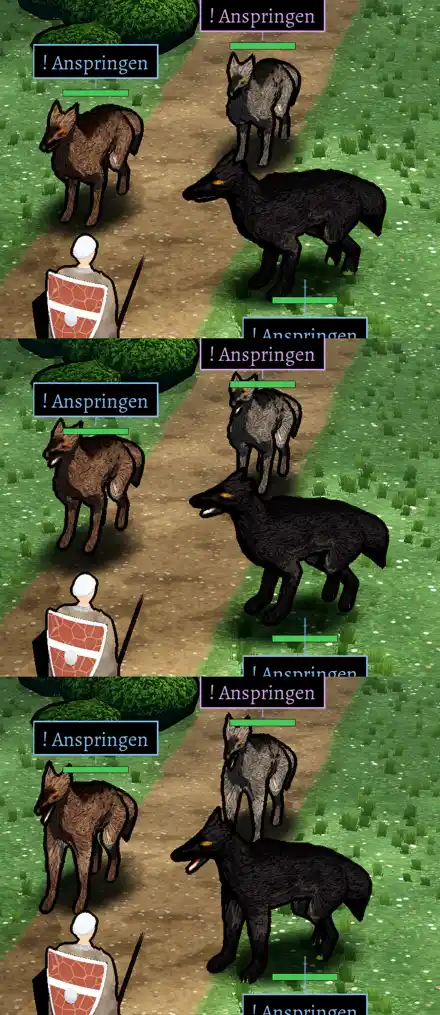
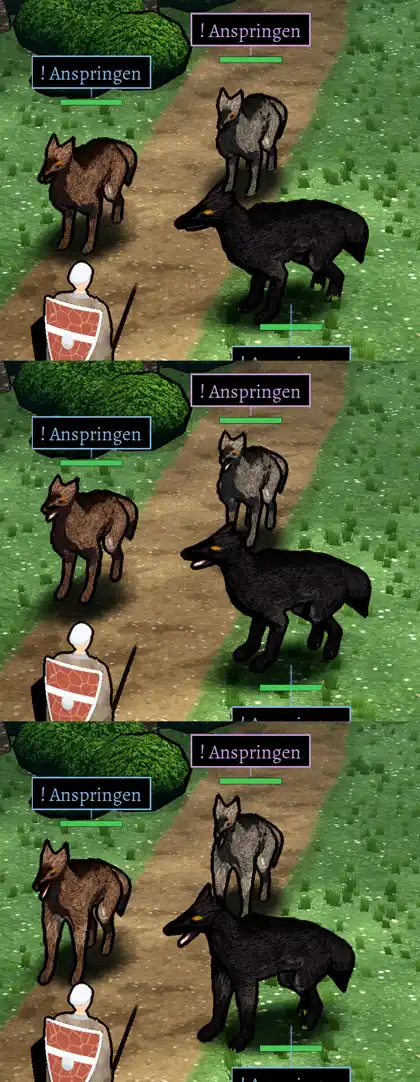
Jerry: 348.7 Runde 8 Chefsache, Übergabe

diff --git a/docs/ARBEIT-TEAM-JERRY.md b/docs/ARBEIT-TEAM-JERRY.md
@@ -5,13 +5,13 @@ Monster, Höhle, Kampf, Klang (`ROLLE-ENTWICKLUNG.md`). Reihenfolge = Vorrang; e
 **Pause aufgehoben (Sokrates als Vertreter des Chefs, 25.10., 01:2x: „Kümmere dich darum, dass der Laden läuft“):** Arbeit nach `LISTE-UMZUG-348.md`, Zeilen 348.6–348.8; altes Spiel ruht weiter.
 
 
-**Übergabe (25.10., 10:06, „Jerry – 348.7 Kampfort Godot 16“):** Zweig `claude/jerry-348-kampf`: Wölfe Runden 2–7 (8ad34ad Lauf 43 grün, Chef 09:37 gemeldet; 9ed97862 Lauf 44 prüfen); Ursache Kopf per Prüfbild `DIAG=1` gefunden (Zu 348.7, Runden 5–7). Nachfolger: „Jerry – 348.7 Kampfort Godot 17“.
+**Übergabe (25.10., 10:35, „Jerry – 348.7 Kampfort Godot 17“):** Zweig `claude/jerry-348-kampf`: Runde 8 Kopf, Hüfte, Lebensbalken (20788bbbf, Lauf 48 prüfen); Chefsache 3487 angelegt, gemeldet. Nachfolger: „Jerry – 348.7 Kampfort Godot 18“.
 
 ## Zeilen
 
 | Nr. | Kl. | Titel | Stand | Zweig |
 |---|---|---|---|---|
-| 348.7 | M | **von Sokrates (Vertretung Chef 25.10., 01:19):** Umzug Godot: Modellregel, Kampfort Wolfsrudel in MARS mit echten Regeln (`LISTE-UMZUG-348.md`) | startbar: Wölfe nach Urteil Chef 08:57, Runden 1–8 (69b9d1ed9, Lauf 46), Chef gemeldet 09:37 (Runde 4); Kopf r8 (Zu 348.7, Runde 8) melden, dann Hüftstreifen; Zustandszeichen: Sokrates fragt nach | `claude/jerry-348-kampf` |
+| 348.7 | M | **von Sokrates (Vertretung Chef 25.10., 01:19):** Umzug Godot: Modellregel, Kampfort Wolfsrudel in MARS mit echten Regeln (`LISTE-UMZUG-348.md`) | startbar: Wölfe nach Urteil Chef 08:57, Runden 1–8 (20788bbbf, Lauf 48), Chefsache 3487 Runde 8 offen; bis Urteil Hinterleib von vorn (Zu 348.7, Runde 8); Zustandszeichen: Sokrates fragt nach | `claude/jerry-348-kampf` |
 | 348.3 | M | **von Sokrates (Chef 24.10., 18:30):** Fehlermessung Engine, Bereich Jerry: hätte Godot die Chef-Fehler seit 10.10. verhindert; Umzugskosten in Sitzungen; Tabelle in Chefsache 348 | wartet auf Chef: Tabelle in Chefsache 348: Godot allein 0, mit Modellen 11 von 32; Umzug 15–21 Sitzungen | – |
 | 304 | M | **von Chef (22.10., 13:22):** Klassisch: Abwehr, getroffen, trotzdem Konter, regeltechnisch richtig? (Zu 304) | ruht: im Chat beantwortet (Konter nur nach Fehlschlag, eigene Regel); ändern nur auf Wort des Chefs | – |
 | 257 | M | **von Chef (20.10., 17:17, Test B46):** App „hängt“, ging dann weiter (Zu 257) | ruht: Hänger-Wächter (Tom) seit Build 49; bis zum nächsten Hänger mit Absturzbericht | – |
@@ -43,9 +43,9 @@ Monster, Höhle, Kampf, Klang (`ROLLE-ENTWICKLUNG.md`). Reihenfolge = Vorrang; e
 - **Zu 348.7, von Sokrates (Chef 25.10., 08:42):** jedes mehrfach vorkommende Objekt in mindestens drei Varianten, auch Höhlenobjekte (`LISTE-UMZUG-348.md` Punkt 6).
 - **Zu 348.7, Werkzeug (Jerry 25.10., 03:55):** lokal rendern statt auf Läufe warten: Godot 4.7.2 nach `~/godot/godot` (GitHub-Release, lädt in Sekunden), Modelle aus dem APK des letzten Laufs (`unzip kampf348.apk 'assets/kampf/daten/*'` nach `godot/kampf/daten/`), dann `xvfb-run -a -s "-screen 0 1080x2340x24" ~/godot/godot --rendering-driver opengl3 --path godot --resolution 1080x2340 -- --bild=<png>`; Ausgabe „Schirm“ (Fuß/Kopf am Schirm), „Waffe“, „Schild“ (Achsen), „Blick“. Helligkeit der Gegner: zweites Bild mit `GLUEH=1`, Unterschied = Bildpunkte des Gegners. Altes Bild: `cd tools/preview && MARS211=wolves MARS211FORMAT=a56 ../../gradlew -q run` (liegt in `tools/preview/build/screens/mars211/a56_01.png`). Blender lokal: `python3 -m venv ~/bl && ~/bl/bin/pip install bpy==5.2.3 numpy pillow` (im Hintergrund, etwa 2 Minuten), dann `OUT=… ~/bl/bin/python -I tools/blender348/wolf.py`, Dateien wie im Workflow nach `godot/kampf/daten/` (`.glb` → `.bin`). Artefakt-Link: `actions_get download_workflow_run_artifact`, mit `curl` laden.
 - **Zu 348.7, Runde 1 nach Urteil Chef 08:57 (Jerry 25.10., 09:09, 03afc119d; Punkte in `LISTE-UMZUG-348.md`):** Standbilder: `HALTUNG=…` mit `--bild=`, Ausschnitt (300,450)–(1080,1050) ×2. Ablauf je Runde: `wolf.py` bauen, nach `godot/kampf/daten/` kopieren, `--headless --import`, rendern (Werkzeug oben, etwa 1 min); Helligkeit grau 90, schwarz 29, braun 75 (alt 81/31/–).
-- **Zu 348.7, Runden 2–4 (Jerry 25.10., 09:37, 8ad34ad):** Befund in Git; offen außer Kopf: Hüftstreifen, Ohren des grauen im Lebensbalken. **HALTUNG ist in Sekunden:** `Scharren:0.2` (höchste Hebung), `Lefzen:1.0`; Probe druckt „Pfote“, `wolf.py` druckt „KIEFER“, „SCHARREN“; Schalter `SCH=[oberarm,unterarm,pfote]`.
+- **Zu 348.7, Runden 2–4:** `HALTUNG` in Sekunden (`Scharren:0.2`, `Lefzen:1.0`, `Biss:0.12` offen); Schalter `SCH=[oberarm,unterarm,pfote]`.
 - **Zu 348.7, Runden 5–7 (Jerry 25.10., 10:06, 9ed97862):** Rumpf r5 laut Prüfer besser (schwarzer fast wolfsartig); grau/braun von vorn weiter hoher runder Hinterleib; Scharren gefaltet (schwarz geht schwarz in schwarz unter). Prüfbild `DIAG=1`: Unterkiefer rot, Schnauze grün, Nase blau, Hals gelb.
-- **Zu 348.7, Runde 8 (Jerry 25.10., 10:23, 98415616f, 69b9d1ed9):** (a) Ursache: Blob `kopf`→`schnauze` stand seit Runde 4 im Kommentar; wieder drin, Prüfer: durchgehend, keine Knolle. (b) `setr` drehte um Welt-X, negativ hebt eine nach vorn zeigende Spitze; für `kiefer` umgekehrt, Ruhe 0°, Lefzen 18° (30° hing wie Zunge). (c) frei steht nichts. Zahnfarbe nur vorn (Messung mit Prüffarben: weiße „Klinge“ war Zahnfarbe auf der Kieferseite). **Offen laut Prüfer:** heller Streifen am Kieferrand, braun beim Biss weißer Keil ohne Rachen, kein dunkler Spalt; schwarz Schnauze eher zu lang, grau/braun große Fuchsohren; Hüftstreifen; Lebensbalken über Ohren des grauen.
+- **Zu 348.7, Runde 8 (Jerry 25.10., 10:23, 98415616f, 69b9d1ed9):** (a) Ursache: Blob `kopf`→`schnauze` stand seit Runde 4 im Kommentar; wieder drin, Prüfer: durchgehend, keine Knolle. (b) `setr` drehte um Welt-X, negativ hebt eine nach vorn zeigende Spitze; für `kiefer` umgekehrt, Ruhe 0°, Lefzen 18° (30° hing wie Zunge). (c) frei steht nichts. Zahnfarbe nur vorn (Messung mit Prüffarben: weiße „Klinge“ war Zahnfarbe auf der Kieferseite). **Offen laut Prüfer:** heller Streifen am Kieferrand, braun beim Biss weißer Keil ohne Rachen, kein dunkler Spalt; schwarz Schnauze eher zu lang, grau/braun große Fuchsohren. Hüftfächer behoben (Keulen-UV wie Läufe, 7d830b8ca); Rest heller Fleck = hellste Toon-Stufe auf der Keule (Eckfarben dort dunkler als Flanke, gemessen), Stilfrage. Lebensbalken: `figur.head()` Wolf 0,9 → 1,12 m (20788bbbf); schwarzer unter den Pfoten wegen Prüfer-Regel Runde 27 (`kampf_ui.gd`). Alle Modelle lokal bauen wie im Workflow.
 - **Zu 348.7, Lohn (Jerry 25.10., 08:45, 20bbfb2ef):** wie `Battle.finishWin`: Anführer = Gegner mit den meisten EP, EP × (1 + Rudelanteil × Gefährten) × Stufenabstand (`progress.over`), Gold, feste Beute, Aufstieg bis Stufe 6; Gerufene (Grak) zählen nicht. Fehlt bis Toms Held/Tasche: Ausrüstungsbeute (`Loot.drops`), Elite/Schimmer, Boni aus Ausrüstung und Talenten (als Faktoren vorgesehen), Gutschrift in die Tasche (Welt liest `Kampfort.reward`). Tabellen neu: `MARS_GOLDEN=$PWD/godot/tests/golden ./gradlew -p core test --tests '*MarsGoldenTest*' --rerun`. Standbild Endfeld: `SIEG=1` mit `--bild=`. **Endfeld (77af01a55):** Prüfer ohne Befund; offen: Held und Söldner gleich (Toms Held, (c) unten).
 - **Zu 348.7, nächste Schritte (Jerry 25.10., 02:53):** (c) **An Tom** (sein Vorrat voll, darum hier): Held mit Klasse/Kleidung als Schalter in `held3.py`, Schild nicht ins Netz, Meter, Hände sichtbar, Bewegungen Ausholen, Hieb, Stich, Treffer, Ausweichen, Sturz, Tod (Modellregel 1, 4, 5); in Toms Vorrat, sobald dort Platz ist. (d) Tusche am Handy.
 

diff --git a/docs/chefsache/ansehen/3487-woelfe-runde8.md b/docs/chefsache/ansehen/3487-woelfe-runde8.md
@@ -1,5 +1,5 @@
 # 348.7 · Wölfe im Kampfort Godot, Runde 8: liest sich der Kopf jetzt als Wolf?
-Jerry · 25.10., 10:33 · Jerry · M (Chef 25.10., 08:57, Urteil zu den Wölfen; Stand 10:06 „liest sich noch nicht als Wolf“)
+Jerry · 25.10., 10:33 · Kampf · M (Chef 25.10., 08:57, Urteil zu den Wölfen; Stand 10:06 „liest sich noch nicht als Wolf“)
 
 ## Frage
 
@@ -30,11 +30,12 @@ Von oben: Ruhe, Lefzen zeigen, Biss (Vorstoß). Geändert:
 
 ## Auswertung
 
-Prüfer (fremder Helfer, vier Runden), noch offen:
-- Am Kieferrand ein heller Streifen; beim braunen Wolf zeigt der Biss eher einen hellen Keil als einen Rachen; kein dunkler Spalt zwischen den Kiefern.
+Prüfer (fremder Helfer, sieben Durchgänge), noch offen:
+- In Ruhe beim schwarzen Wolf eine dünne helle Linie an der Maulspalte. Offenes Maul: am Kieferrand ein heller Streifen; beim braunen Wolf zeigt der Biss eher einen hellen Keil als einen Rachen; kein dunkler Spalt zwischen den Kiefern.
 - Schwarzer Wolf: Schnauze eher zu lang (Schakal). Grauer und brauner: große, spitze Ohren, „fuchsartig“ (die Ohren wurden auf dein Wort vom 08:57 größer).
 - An der Außenseite der Hinterkeule ein heller Fleck mit scharfem Rand: das ist die hellste Lichtstufe des Zeichenstils auf der runden Keule, keine Fellfarbe.
-- Der Balken des schwarzen Wolfs liegt unter seinen Pfoten, weil über ihm der hintere Wolf steht (so seit Prüfer Runde 27).
+- Lebensbalken: in Ruhe frei über den Ohren; beim Lefzenzeigen (Ohren aufgestellt) stieß die Ohrspitze des grauen Wolfs im letzten Prüfbild an den Balken; danach noch 7 cm höher gesetzt, nicht erneut geprüft. Der Balken des schwarzen Wolfs liegt unter seinen Pfoten, weil über ihm der hintere Wolf steht (alte Regel gegen Verwechslung).
+- Oben links ist die Ansage (Wurf gegen Rüstungsklasse) am Bildrand abgeschnitten; das kommt vom Ausschnitt des Prüfbilds, am Handy prüfen.
 
 Stärkstes Gegenargument: Kopfdetails sind am Handy nur etwa 30 Bildpunkte groß; der Rumpf (hoher, runder Hinterleib von vorn) prägt den Eindruck mehr als das Maul.
 
